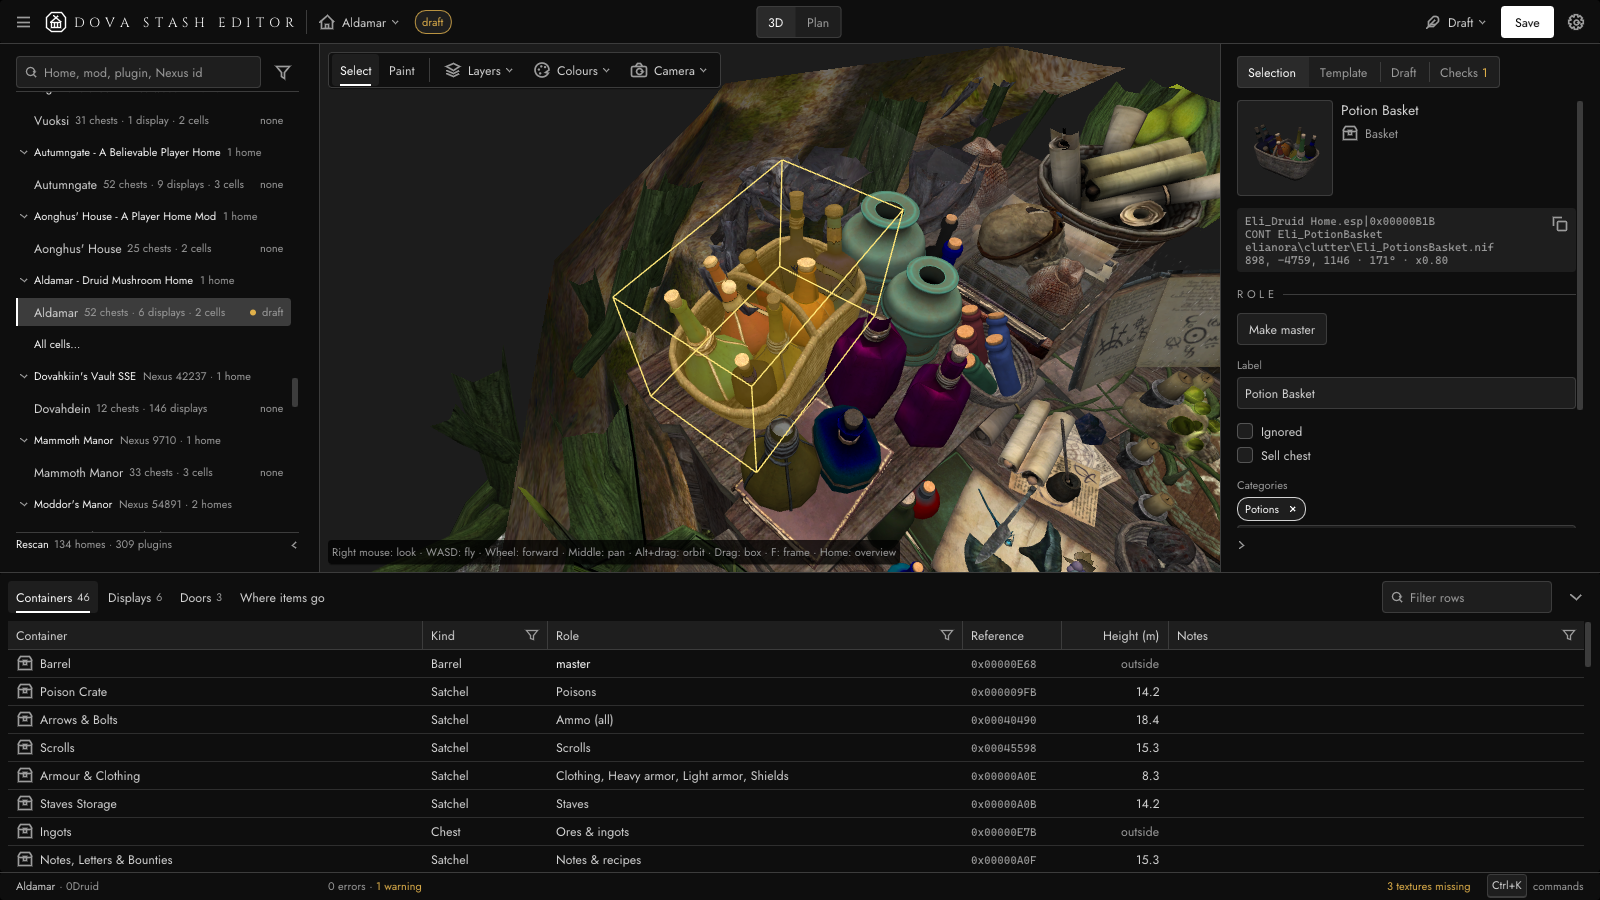
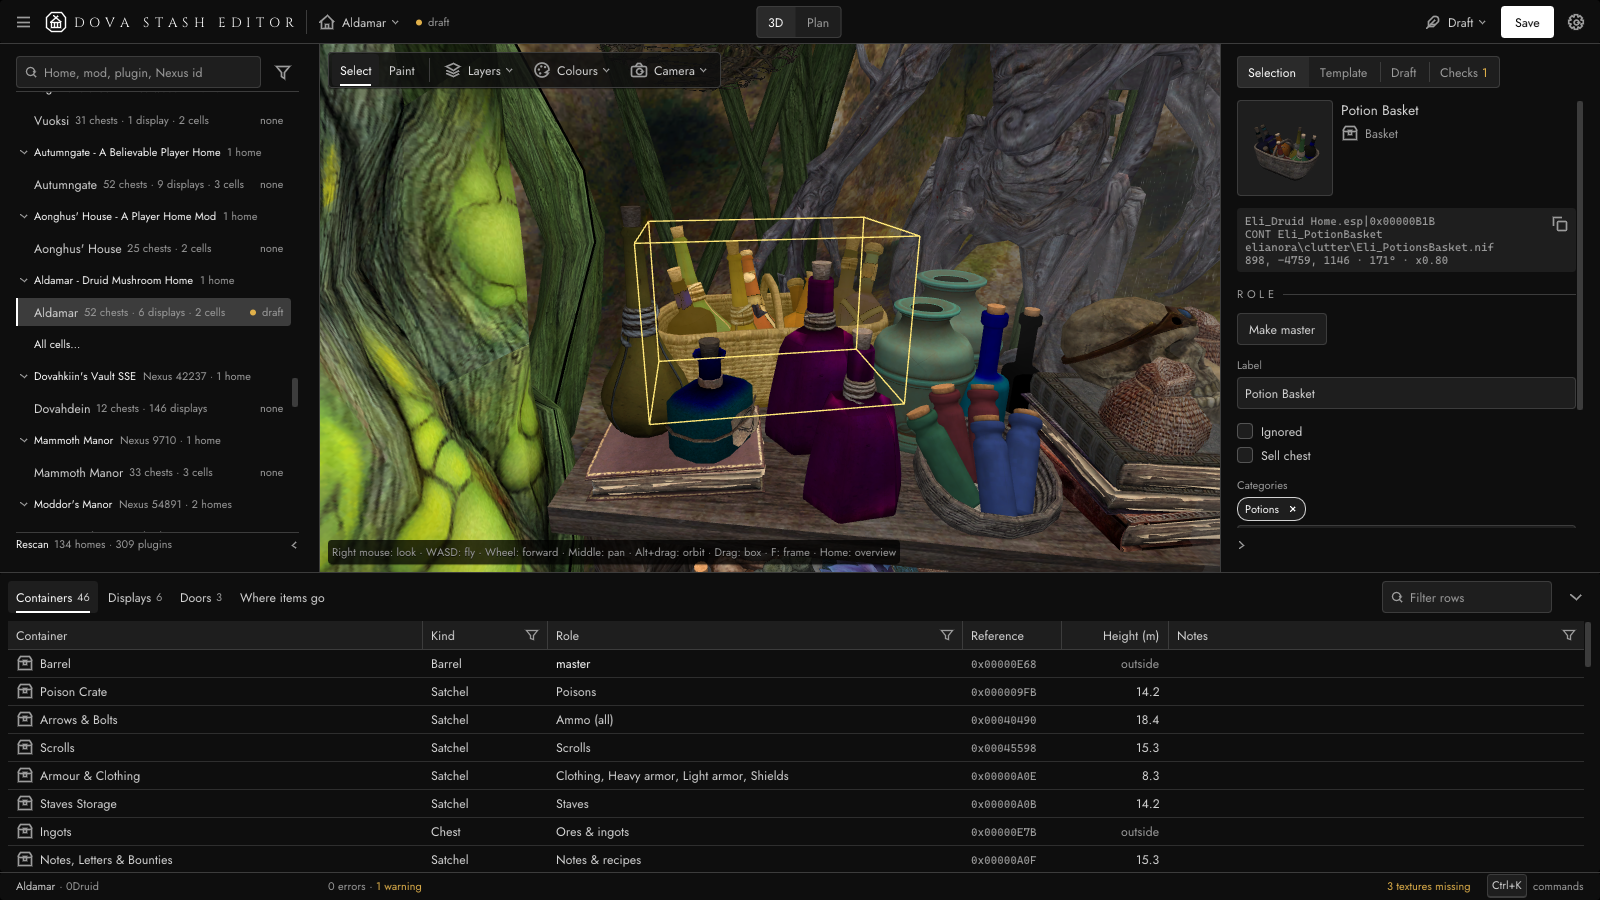
Editor: fix the rail's ImGui error, catch ImGui errors, status dots, roof on
- Rail: a search that ended the list on a home's "All cells..." row raised a
  Dear ImGui error box (SetCursorPos with no item after it); the row now
  ends on its Dummy. A search with no match says so and offers to clear it.
- ImGui errors: copied once each into editor.log as "imgui error: ..." in
  every run; a --screenshot run exits 5 on any. Proven on the old rail code.
- No status pills: the title row's template state, the start panel's
  stages and the Selection facts are a dot and a muted word (w::Status).
- Layers > Roof starts on: the roof cut made walls and ceilings look like
  missing meshes; untick it (or --layers -roof) for the cut.
- --search <text> fills the rail's search box for screenshot runs.
- Design judge: six interaction shots (searches, a popover, a narrow
  window); capture reports ImGui errors, which cap the score at 5; the
  judge names states its stills do not cover. Docs say the 10/10 did not
  hold and why; design-pass after shots retaken.

diff --git a/tools/devcycle/design-judge.js b/tools/devcycle/design-judge.js
@@ -43,6 +43,14 @@ const SHOTS = [
   ['checks.png', "--home 'Lakeview Manor' --inspector checks"],
   ['setup.png', '--popover setup'],
   ['narrow-150.png', "--home Aldamar --tab containers --window 1366x768 --text-size 150"],
+  // States a person reaches by typing and clicking (2026-10-29: a rail search ending on a home's "All cells..." row
+  // raised a Dear ImGui error the static shots above never reached, after a 10/10).
+  ['search-home.png', "--search whitepeak --home 'Whitepeak Tower'"],
+  ['search-mod.png', '--search aldamar'],
+  ['search-none.png', '--search zzznomatch'],
+  ['search-narrow.png', "--search whitepeak --home 'Whitepeak Tower' --window 1366x768 --text-size 150"],
+  ['layers.png', '--home Aldamar --popover layers'],
+  ['plan-search.png', "--search lakeview --home 'Lakeview Manor' --tab plan"],
 ]
 
 const CAPTURE_SCHEMA = {
@@ -108,7 +116,7 @@ function capturePrompt(round, dir) {
 
 You are the CAPTURE agent for round ${round} of the design judge. Build editor-release (report the result; stop with failures if it fails), then take these screenshots into the folder ${dir} (create it), one run each, with the common flags and a fresh DOVASTASH_EDITOR_STATE file name for every run (a new random name each time rather than deleting, which may be blocked, so the start panel shows no leftovers); only one editor instance at a time:
 ${SHOTS.map(([n, f]) => `- ${n}: ${f || '(no extra flags)'}`).join('\n')}
-Return the absolute path of every file and whether it exists and is a non-trivial PNG. Do not fix anything.`
+Record each run's exit code. Exit 5 means Dear ImGui reported an error (the red "Message from Dear ImGui" box a user sees): copy every "imgui error:" line from the run's editor.log (next to its state file) into that shot's note and into failures, and keep going with the other shots. Any other non-zero exit is a failure too. Return the absolute path of every file, whether it exists and is a non-trivial PNG, and its exit code in the note. Do not fix anything.`
 }
 
 function judgePrompt(round, capture, prev) {
@@ -118,6 +126,8 @@ You are the DESIGN JUDGE for round ${round}. Invoke the Skill tool with skill "i
 This is Assessment A alone, on a native desktop surface: there is no detector, no browser and no live mode here, so do not run them and do not call the run degraded; say "Assessment A only (Dear ImGui desktop app, no web detector)" in provenance.
 
 Look at every screenshot (Read each PNG): ${JSON.stringify(capture.shots)}
+${capture.failures.length ? `Dear ImGui errors in this round's runs (each is a MAJOR issue, the overall score is at most 5 while any remains, and the fix is in the code that drew that window): ${JSON.stringify(capture.failures)}` : 'No Dear ImGui errors in this round's runs.'}
+The shots are still frames: a score covers only what they show. In whatA10Needs, name any state a person reaches that no shot covers (hover, a popover, an empty or overflowing list, a long name, a narrow window) that you could not judge.
 Then read the code that draws what you question (editor/src/ui/*.cpp, Theme.cpp and Widgets.cpp for the tokens and widgets) so each issue names a file and line.
 ${prev ? `Last round's result: overall ${prev.overall}, issues ${JSON.stringify(prev.issues.map(i => i.title))}. Check whether each was really fixed before scoring again.` : ''}
 
@@ -154,7 +164,10 @@ for (let round = 1; round <= MAX_ROUNDS; round++) {
   const dir = `${REPO}\\build\\design-judge\\r${round}`
   log(`Round ${round}: capture`)
   const capture = await agent(capturePrompt(round, dir), { label: `capture r${round}`, model: 'opus', phase: 'Capture', schema: CAPTURE_SCHEMA })
-  if (!capture || capture.failures.length) { log(`capture failed: ${capture ? capture.failures.join('; ') : 'agent died'}`); break }
+  if (!capture) { log('capture agent died'); break }
+  // An ImGui error is a blocker the judge must see and the fixer must fix; anything else that failed stops the run.
+  const imguiFailures = capture.failures.filter(f => /imgui/i.test(f))
+  if (capture.failures.length > imguiFailures.length) { log(`capture failed: ${capture.failures.join('; ')}`); break }
 
   log(`Round ${round}: judge`)
   const judge = await agent(judgePrompt(round, capture, prev), { label: `judge r${round}`, model: 'opus', phase: 'Judge', schema: JUDGE_SCHEMA })

diff --git a/editor/src/ui/Window.cpp b/editor/src/ui/Window.cpp
@@ -7,6 +7,7 @@
 #include <cwchar>
 #include <filesystem>
 #include <memory>
+#include <set>
 #include <string>
 #include <thread>
 #include <vector>
@@ -17,6 +18,7 @@
 #include <d3d11.h>
 
 #include <imgui.h>
+#include <imgui_internal.h>  // DebugLogBuf: ImGui's recoverable errors into our log
 #include <imgui_impl_dx11.h>
 #include <imgui_impl_win32.h>
 
@@ -358,6 +360,11 @@ namespace dova::editor::ui
 		ImGui::CreateContext();
 		ImGuiIO& io = ImGui::GetIO();
 		io.ConfigFlags |= ImGuiConfigFlags_NavEnableKeyboard;
+		// ImGui's recoverable errors (a misused API: the red "Message from Dear ImGui" tooltip) go to its debug log
+		// too; the loop below copies each into editor.log once, and a screenshot run exits 5 on any (docs/EDITOR.md).
+		io.ConfigErrorRecoveryEnableDebugLog = true;
+		ImGuiContext& imgui = *ImGui::GetCurrentContext();
+		imgui.DebugLogFlags = (imgui.DebugLogFlags | ImGuiDebugLogFlags_EventError) & ~ImGuiDebugLogFlags_OutputToTTY;  // ours, not the console
 		io.IniFilename = nullptr;  // the layout is fixed; nothing to remember yet
 		w::ApplyTheme(g_dpi, scale / g_dpi);  // style, colours and fonts (Widgets.h, docs/EDITOR-UX.md §3)
 		ImGui_ImplWin32_Init(hwnd);
@@ -368,6 +375,7 @@ namespace dova::editor::ui
 			EditorApp app(a_options, a_gui, g_device, g_context);
 			g_app = &app;
 			bool      timedOut = false;
+			std::set<std::string> imguiErrors;  // each logged once
 			bool      done = false;
 			int       idleFrames = 0;
 			int       frames = 0;
@@ -454,6 +462,24 @@ namespace dova::editor::ui
 					app.Frame();
 				}
 				ImGui::Render();
+				// ImGui's errors this frame, from its debug log (then cleared, so it never grows).
+				if (ImGuiContext& g = *ImGui::GetCurrentContext(); !g.DebugLogBuf.empty()) {
+					std::string_view buf(g.DebugLogBuf.c_str(), static_cast<std::size_t>(g.DebugLogBuf.size()));
+					while (!buf.empty()) {
+						const auto eol = buf.find('\n');
+						std::string_view line = buf.substr(0, eol);
+						buf = eol == std::string_view::npos ? std::string_view{} : buf.substr(eol + 1);
+						// "[01264] [imgui-error] In window ...": without ImGui's frame number, so each error logs once.
+						if (const auto at = line.find("[imgui-error] "); at != std::string_view::npos) {
+							line.remove_prefix(at + 14);
+							if (!line.starts_with("(current settings") && imguiErrors.emplace(line).second) {
+								Log("imgui error: {}", line);
+							}
+						}
+					}
+					g.DebugLogBuf.clear();
+					g.DebugLogIndex.clear();
+				}
 				const ImVec4 bg0 = ImGui::ColorConvertU32ToFloat4(w::Th().bg0);
 				const float  clear[4] = { bg0.x, bg0.y, bg0.z, 1.0f };
 				g_context->OMSetRenderTargets(1, &g_rtv, nullptr);
@@ -493,7 +519,11 @@ namespace dova::editor::ui
 				watchdog.request_stop();
 				watchdog.join();
 			}
-			rc = timedOut ? 4 : a_screenshot && (app.HomeMissing() || app.Failed()) ? 1 : 0;
+			rc = timedOut ? 4 : a_screenshot && (app.HomeMissing() || app.Failed()) ? 1 : a_screenshot && !imguiErrors.empty() ? 5 : 0;
+			if (a_screenshot && !imguiErrors.empty()) {
+				std::fprintf(stderr, "error: %zu Dear ImGui error(s), see the log\n", imguiErrors.size());
+				std::fflush(stderr);
+			}
 			g_app = nullptr;
 			if (demoLoad.joinable()) {
 				demoLoad.join();

diff --git a/editor/src/ui/Rail.cpp b/editor/src/ui/Rail.cpp
@@ -424,7 +424,21 @@ namespace dova::editor::ui
 				// The list, then the footer.
 				const float footerH = ImGui::GetTextLineHeightWithSpacing() + t.gap;
 				ImGui::BeginChild("homelist", ImVec2(0, std::max(ImGui::GetContentRegionAvail().y - footerH, 40.0f)), ImGuiChildFlags_None, ImGuiWindowFlags_NoNavInputs);
+				const float listTop = ImGui::GetCursorPosY();
 				DrawHomeList(false, _railSearch);
+				// A search that matches nothing (no home, no mod) says so, with the way back, instead of an empty rail.
+				if (_homes && !_railSearch.empty() && ImGui::GetCursorPosY() == listTop) {
+					ImGui::Dummy(ImVec2(0.0f, t.pad));
+					ImGui::Indent(t.pad);
+					ImGui::PushTextWrapPos(ImGui::GetContentRegionMax().x - t.pad);
+					ImGui::TextUnformatted(std::format("No home or mod matches \"{}\"", _railSearch).c_str());
+					ImGui::PopTextWrapPos();
+					w::Muted("Search by home, mod, plugin or Nexus id.");
+					if (w::LinkButton("Clear the search")) {
+						_railSearch.clear();
+					}
+					ImGui::Unindent(t.pad);
+				}
 				const bool scrolled = ImGui::GetScrollY() > 0.0f;
 				ImGui::EndChild();
 				// A hairline on the list's bottom edge, so a row the list cuts ends on a rule, not on the footer; the item
@@ -629,15 +643,16 @@ namespace dova::editor::ui
 					ImGui::PushFont(t.smallFont);
 					ImGui::Indent(childX);
 					// A row of the rail's height with the link centred in it, so the rows keep one pitch.
+					// The link first, then the row's Dummy from the row's top: the last item submitted is the row, so the
+					// list ends on an item (a SetCursorPos left last is an ImGui error when this row ends a search).
 					const ImVec2 rowAt = ImGui::GetCursorPos();
-					ImGui::Dummy(ImVec2(1.0f, t.rowH));
-					const ImVec2 next = ImGui::GetCursorPos();
 					ImGui::SetCursorPos(ImVec2(rowAt.x, rowAt.y + std::floor((t.rowH - ImGui::GetTextLineHeight()) * 0.5f)));
 					if (w::LinkButton(anyCells ? "Hide the other cells" : "All cells...")) {
 						toggleCells();
 					}
 					w::Tip("Every cell with containers in this mod's plugins, likely homes first: for a home the finder misses");
-					ImGui::SetCursorPos(next);
+					ImGui::SetCursorPos(rowAt);
+					ImGui::Dummy(ImVec2(1.0f, t.rowH));
 					ImGui::Unindent(childX);
 					ImGui::PopFont();
 					if (anyCells) {

diff --git a/editor/src/ui/App.h b/editor/src/ui/App.h
@@ -75,6 +75,7 @@ namespace dova::editor::ui
 		std::optional<std::string> layers;    // Layers popover toggles for this run: "effects,-structure" (names, - turns off)
 		std::vector<std::string>   sort;      // drawer tables' sort for this run: "table:column[:desc]" (ui/Tables.h)
 		std::optional<std::string> filter;    // the drawer tab's filter box
+		std::optional<std::string> search;    // the rail's search box
 		std::vector<std::string>   quick;     // the drawer tab's column filters on (their labels)
 	};
 
@@ -465,8 +466,9 @@ namespace dova::editor::ui
 		bool                           _heightCut{ false };  // both views
 		// The roof cut (3D view, interiors): about 3 m above each area's floor, never above the highest container + 120
 		// units (`_roofZ`; _view.roofGrid has the areas), only containers and displays are drawn, so an overview shows
-		// the rooms and a cave below them, not the rock or a house's roof. Layers > Roof brings it back.
-		bool                           _showRoof{ false };
+		// the rooms and a cave below them, not the rock or a house's roof. Off by default (Layers > Roof on): with the
+		// cut, a home's walls and ceilings above it looked like missing meshes.
+		bool                           _showRoof{ true };
 		float                          _roofZ{ 1e9f };
 		float                          _flySpeed{ 500.0f };  // units per second
 		float                          _viewAspect{ 16.0f / 9.0f };

diff --git a/editor/src/ui/TitleBar.cpp b/editor/src/ui/TitleBar.cpp
@@ -161,16 +161,16 @@ namespace dova::editor::ui
 				chip = "off";
 				kind = w::Kind::Warn;
 			}
-			ImGui::SameLine(0.0f, t.gap);
-			ImGui::SetCursorPosY(y + (ImGui::GetFrameHeight() - t.chipH) * 0.5f);
-			// A word of state in its colour (not a ChipButton: those switch on and off); a click opens the Template panel.
-			w::Chip(chip.c_str(), kind);
+			ImGui::SameLine(0.0f, t.pad);
+			ImGui::SetCursorPosY(y);
+			// The template's state as the rail shows it: a dot in its colour and a muted word (no pill, EDITOR-UX.md
+			// §3.5); a click opens the Template panel.
+			if (w::Status(chip.c_str(), kind, ImGui::GetFrameHeight()) && _cell) {
+				_panel = Panel::Template;
+				_state.ui.inspectorOpen = true;
+			}
 			if (ImGui::IsItemHovered()) {
 				ImGui::SetMouseCursor(ImGuiMouseCursor_Hand);
-				if (ImGui::IsMouseClicked(ImGuiMouseButton_Left) && _cell) {
-					_panel = Panel::Template;
-					_state.ui.inspectorOpen = true;
-				}
 			}
 			// The tooltip adds what the word does not say: whose, and which file.
 			const auto& file = !_cell->filePath.empty() ? _cell->filePath : _cell->savedPath;

diff --git a/editor/src/Cli.cpp b/editor/src/Cli.cpp
@@ -630,6 +630,7 @@ namespace dova::editor
 		       "  --sort <t>:<col>[:desc]  sort a drawer table (containers, displays, doors, preview) by a column\n"
 		       "                        (its header or number); repeat it to add columns\n"
 		       "  --filter <text>       the drawer tab's filter box (every word must match)\n"
+		       "  --search <text>       the rail's search box (home, mod, plugin or Nexus id)\n"
 		       "  --quick <filter>      turn a column filter of the drawer tab on (e.g. Ignored, Respawning, Used,\n"
 		       "                        \"Receives nothing\"); repeatable\n"
 		       "  --screenshot <file>   save the window (.png or .bmp) once everything is loaded, then exit; the\n"
@@ -764,6 +765,8 @@ namespace dova::editor
 				}
 			} else if (s == "--filter") {
 				a.tableFilter = value();
+			} else if (s == "--search") {
+				a.railSearch = value();
 			} else if (s == "--quick") {
 				if (auto v = value()) {
 					a.quick.push_back(std::move(*v));

diff --git a/editor/src/ui/Inspector.cpp b/editor/src/ui/Inspector.cpp
@@ -156,14 +156,14 @@ namespace dova::editor::ui
 			ImGui::SameLine(0.0f, t.gap);
 			w::Muted(kind.c_str());
 		}
-		// Facts that matter for a template, as chips.
+		// Facts that matter for a template, as statuses (a dot and a word, no pills: EDITOR-UX.md §3.5).
 		const float rightX = ImGui::GetCursorScreenPos().x + ImGui::GetContentRegionAvail().x;
 		bool        chips = false;
 		auto chip = [&](const char* a_text, w::Kind a_kind, const char* a_tip) {
-			if (chips) {
-				w::FlowNext(w::ChipWidth(a_text), rightX);
+			if (chips && ImGui::GetItemRectMax().x + 2.0f * t.pad + w::StatusWidth(a_text, a_kind) <= rightX) {
+				ImGui::SameLine(0.0f, 2.0f * t.pad);  // two statuses read as two, not one word
 			}
-			w::Chip(a_text, a_kind);
+			w::Status(a_text, a_kind, ImGui::GetTextLineHeight());
 			w::Tip(a_tip);
 			chips = true;
 		};

diff --git a/editor/src/ui/Widgets.h b/editor/src/ui/Widgets.h
@@ -130,6 +130,8 @@ namespace dova::editor::ui::w
 	// a full border; off, the text muted and the border at half strength.
 	bool  ChipButton(const char* a_text, Kind a_kind = Kind::Neutral, bool a_active = false);
 	bool  ChipClose(const char* a_text, Kind a_kind = Kind::Neutral);      // chip with an x; true when the x is clicked
+	bool  Status(const char* a_text, Kind a_kind, float a_height);
+	float StatusWidth(const char* a_text, Kind a_kind);      // a dot and a muted word, as a rail row's status (no pill); true: clicked
 	void  StatusDot(Kind a_kind, const char* a_tooltip = nullptr);         // a 6 px dot on the baseline (unsaved, state)
 
 	// ---- Icons (drawn with the draw list, no icon font) ---------------------------------------------

diff --git a/editor/src/Cli.h b/editor/src/Cli.h
@@ -67,6 +67,7 @@ namespace dova::editor
 		std::optional<std::string> layers;              // --gui --layers <names>: Layers popover toggles ("effects,-structure")
 		std::vector<std::string>   sort;                // --gui --sort table:column[:desc] (repeatable: more columns)
 		std::optional<std::string> tableFilter;         // --gui --filter <text>: the drawer tab's filter box
+		std::optional<std::string> railSearch;          // --gui --search <text>: the rail's search box
 		std::vector<std::string>   quick;               // --gui --quick <chip> (repeatable): the drawer tab's quick filters
 		std::vector<std::string>   errors;
 

diff --git a/editor/src/ui/Widgets.cpp b/editor/src/ui/Widgets.cpp
@@ -1928,6 +1928,19 @@ namespace dova::editor::ui::w
 		}
 	}
 
+	float StatusWidth(const char* a_text, Kind a_kind)
+	{
+		return StatusW(a_text, a_kind);
+	}
+
+	bool Status(const char* a_text, Kind a_kind, float a_height)
+	{
+		const ImVec2 at = ImGui::GetCursorScreenPos();
+		const bool   clicked = ImGui::InvisibleButton(a_text, ImVec2(StatusW(a_text, a_kind), a_height));
+		DrawStatusAt(ImGui::GetWindowDrawList(), at, a_height, a_text, a_kind);
+		return clicked;
+	}
+
 	namespace
 	{
 		// Where a home row's name starts: the row's padding, or under a GroupHeader the group label's keyline (its 12 px

diff --git a/editor/src/ui/Start.cpp b/editor/src/ui/Start.cpp
@@ -194,7 +194,7 @@ namespace dova::editor::ui
 					w::Tip((r->name.empty() ? cell : r->name + "\n" + cell).c_str());
 					ImGui::PopID();
 					ImGui::TableNextColumn();
-					w::Chip(HomeStageName(r->stage), StageKind(r->stage));
+					w::Status(HomeStageName(r->stage), StageKind(r->stage), ImGui::GetTextLineHeight());  // dot and word, as the rail
 					ImGui::TableNextColumn();
 					w::Muted(r->updated.c_str());
 					ImGui::TableNextColumn();

diff --git a/editor/src/main.cpp b/editor/src/main.cpp
@@ -77,6 +77,7 @@ int wmain(int argc, wchar_t** argv)
 	gui.layers = parsed.layers;
 	gui.sort = parsed.sort;
 	gui.filter = parsed.tableFilter;
+	gui.search = parsed.railSearch;
 	gui.quick = parsed.quick;
 	gui.window = parsed.window;
 	gui.timeout = parsed.timeout;
